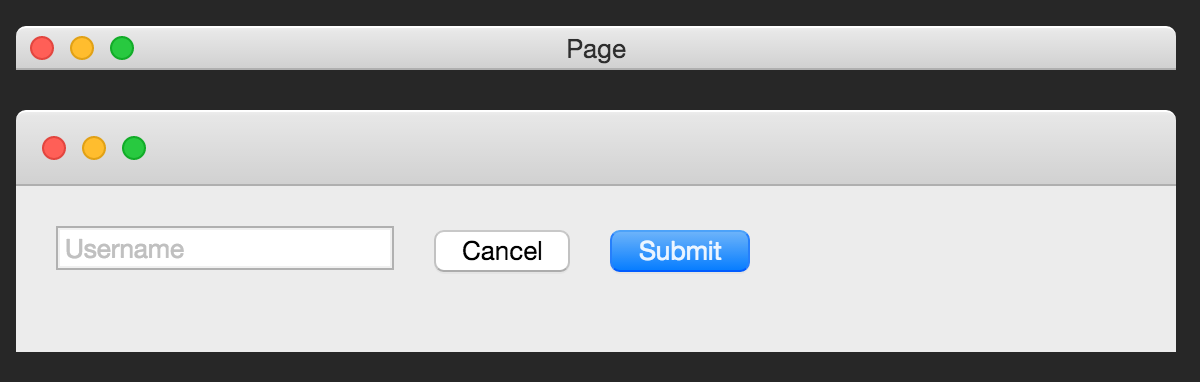
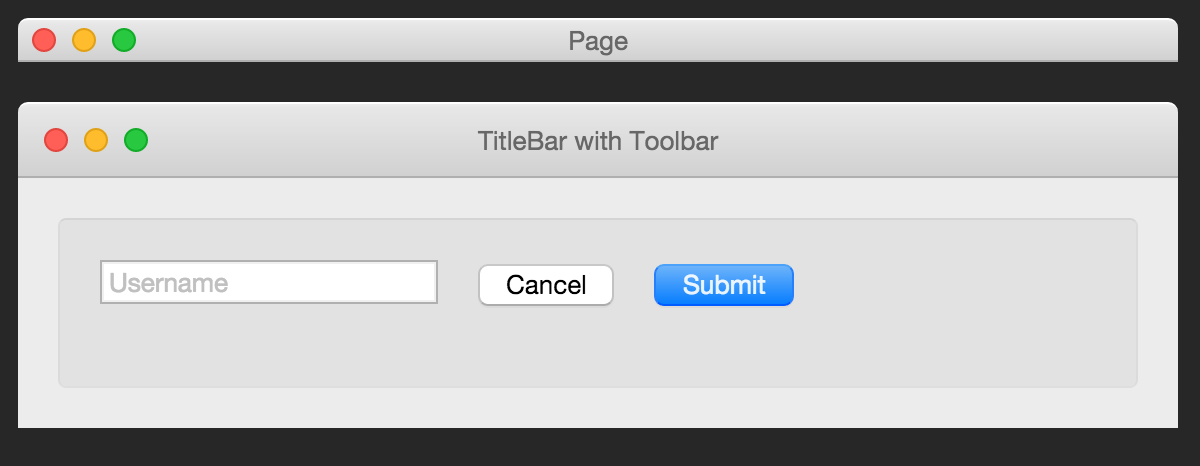
Added box

diff --git a/src/Box.js b/src/Box.js
@@ -4,11 +4,20 @@ import Styling, { mergeStyles, applyStyle } from './Styling';
 var styles = {
   osx_10_11: {
     WebkitUserSelect: 'none',
-    cursor: 'default'
+    cursor: 'default',
+    padding: '20px',
+    backgroundColor: 'rgba(0, 0, 0, .04)',
+    borderWidth: '1px',
+    borderStyle: 'solid',
+    borderTopColor: 'rgba(0, 0, 0, .07)',
+    borderLeftColor: 'rgba(0, 0, 0, .037)',
+    borderRightColor: 'rgba(0, 0, 0, .037)',
+    borderBottomColor: 'rgba(0, 0, 0, .026)',
+    borderRadius: '4px'
   }
 };
 
-class Toolbar extends Component {
+class Box extends Component {
   static propTypes = {
     children: PropTypes.oneOfType([React.PropTypes.string, React.PropTypes.element, React.PropTypes.array]),
     style: PropTypes.object
@@ -20,11 +29,11 @@ class Toolbar extends Component {
 
   render() {
     return (
-      <div>
+      <div style={applyStyle(this.styles)}>
         {this.props.children}
       </div>
     );
   }
 }
 
-export default Toolbar;
+export default Box;

diff --git a/src/PushButton.js b/src/PushButton.js
@@ -1,5 +1,6 @@
 import React, { Component, PropTypes } from 'react';
 import Styling, { mergeStyles, applyStyle } from './Styling';
+import WindowState from './WindowState';
 
 var styles = {
   osx_10_11: {
@@ -43,6 +44,7 @@ var styles = {
   }
 };
 
+@WindowState
 @Styling
 class PushButton extends Component {
   static propTypes = {
@@ -50,6 +52,11 @@ class PushButton extends Component {
     color: PropTypes.string,
     style: PropTypes.object
   };
+
+  constructor() {
+    super();
+    this.state = { windowFocused: true };
+  }
 
   get styles() {
     return mergeStyles(styles.osx_10_11, this.props.style);
@@ -59,7 +66,7 @@ class PushButton extends Component {
     let { children, color, ...props } = this.props;
 
     let styles = this.styles;
-    if (color === 'blue') {
+    if (color === 'blue' && this.state.windowFocused) {
       styles = Object.assign({}, this.styles, this.styles.blue);
     }
 

diff --git a/playground/playground.js b/playground/playground.js
@@ -1,6 +1,6 @@
 import React from 'react';
 import ReactDOM from 'react-dom';
-import { TitleBar, PushButton, TextField, Toolbar } from '../src/Main';
+import { TitleBar, PushButton, TextField, Toolbar, Box } from '../src/Main';
 
 ReactDOM.render(
   (
@@ -9,10 +9,13 @@ ReactDOM.render(
       <TitleBar title="TitleBar with Toolbar" controls={true} className="no-margin-bottom">
         <Toolbar/>
       </TitleBar>
+
       <div className="window">
-        <TextField style={{width: '160px'}} defaultValue="" placeholder="Username"/>
-        <PushButton>Cancel</PushButton>
-        <PushButton color="blue">Submit</PushButton>
+        <Box>
+          <TextField style={{width: '160px'}} defaultValue="" placeholder="Username"/>
+          <PushButton>Cancel</PushButton>
+          <PushButton color="blue">Submit</PushButton>
+        </Box>
       </div>
     </div>
   ),

diff --git a/src/Main.js b/src/Main.js
@@ -2,3 +2,4 @@ export const TitleBar = require('./TitleBar');
 export const Toolbar = require('./Toolbar');
 export const PushButton = require('./PushButton');
 export const TextField = require('./TextField');
+export const Box = require('./Box');

diff --git a/playground/style.css b/playground/style.css
@@ -5,7 +5,7 @@ body {
   max-width: 600px;
 }
 
-#main>div>*, .window>* {
+#main>div>*, .window>div>* {
   -webkit-appearance: none;
   margin-right: 20px;
   margin-bottom: 20px;

diff --git a/README.md b/README.md
@@ -30,6 +30,7 @@ Electron.js. As such, everyone is welcome to contribute and add more components.
 - [x] Toolbar
 - [ ] Space Toolbar Item
 - [ ] Flexible Space Toolbar Item
+- [x] Box
 
 ### Todos Windows
 
@@ -47,7 +48,7 @@ Electron.js. As such, everyone is welcome to contribute and add more components.
 Simple usage:
 
 ```jsx
-import { TitleBar, PushButton, TextField, Toolbar } from 'react-desktop';
+import { TitleBar, PushButton, TextField, Toolbar, Box } from 'react-desktop';
 
 <TitleBar title="Page" controls={true}/>
 
@@ -55,8 +56,11 @@ import { TitleBar, PushButton, TextField, Toolbar } from 'react-desktop';
   <Toolbar/>
 </TitleBar>
 
-<TextField defaultValue="" placeholder="Username"/>
+<Box>
+  <TextField defaultValue="" placeholder="Username"/>
 
-<PushButton>Cancel</PushButton>
-<PushButton color="blue">Submit</PushButton>
+  <PushButton>Cancel</PushButton>
+  <PushButton color="blue">Submit</PushButton>
+</Box>
 ```
+
